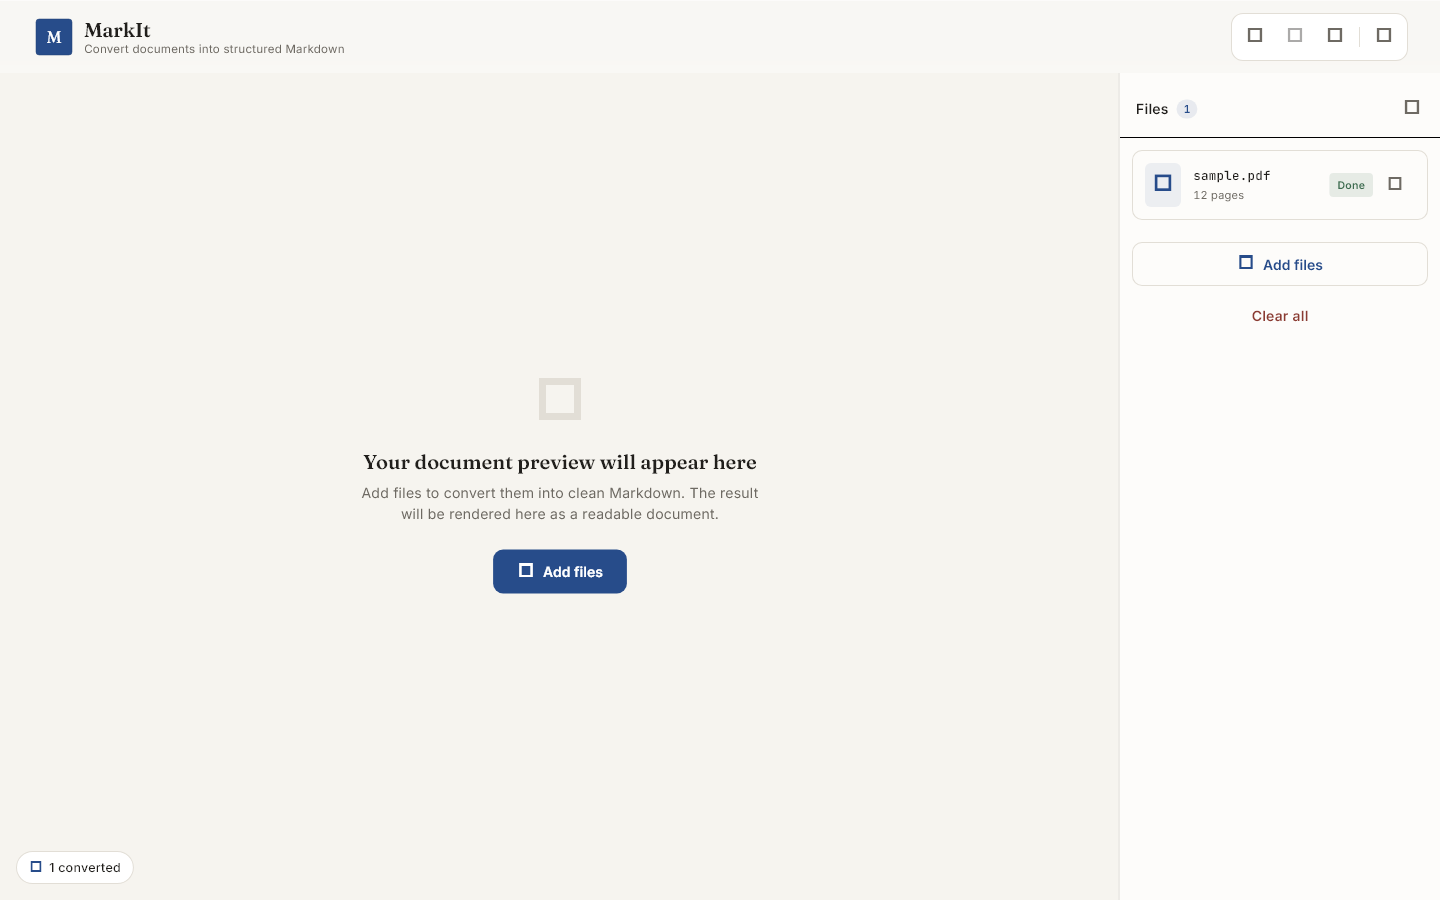
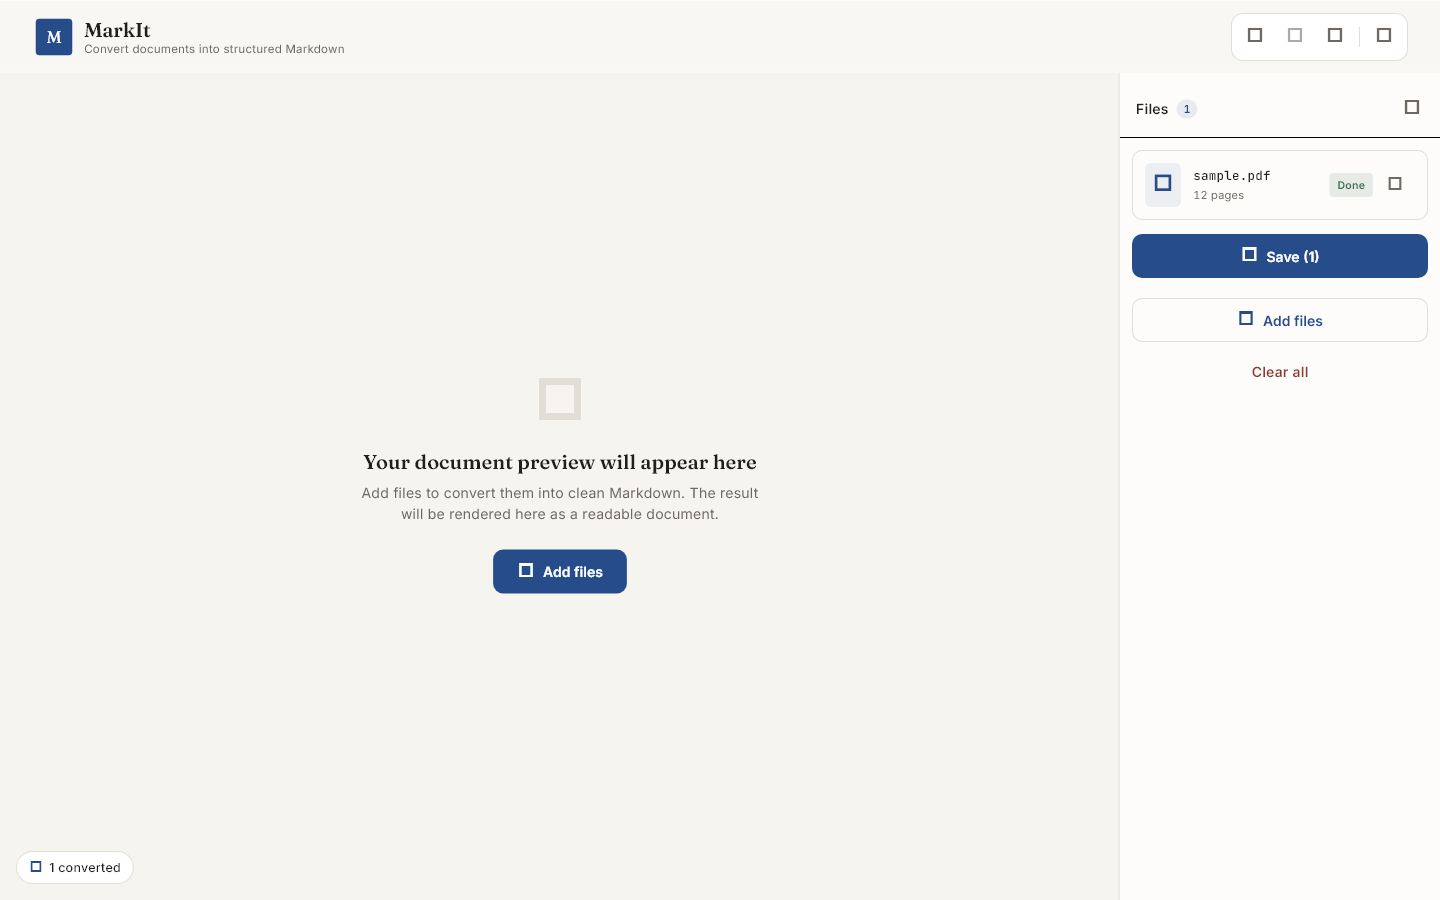
feat: tombol Save di sidebar (desktop) — pilih folder tujuan setelah parsing

Changed region(s): [[0.7812, 0.2489, 1.0, 0.3111], [0.8438, 0.3422, 0.9062, 0.3733], [0.875, 0.4044, 0.9062, 0.4356]]

diff --git a/test/widget/home_screen_test.dart b/test/widget/home_screen_test.dart
@@ -438,7 +438,7 @@ void main() {
           }
         });
 
-    testWidgets('batch sukses → pilih folder → .md dipindah + outputPath update',
+    testWidgets('batch sukses → tombol Save → pilih folder → .md dipindah',
         (tester) async {
       // Setup pakai IO sinkron — IO async di body testWidgets tidak selesai
       // (continuation menumpuk di fake microtask queue).
@@ -469,8 +469,17 @@ void main() {
       await tester.runAsync(() async {
         await tester.tap(find.text(Strings.overwriteConfirm));
       });
-      // Batch (2x10ms) + dialog folder + move + snackbar
+      // Batch (2x10ms) — tanpa auto-dialog lagi setelah selesai.
       await drive(tester, 30);
+      // Auto-dialog TIDAK muncul lagi — file belum dipindah sebelum tap Save.
+      expect(File('${dst.path}/a.md').existsSync(), isFalse);
+      expect(find.text('Save (1)'), findsOneWidget); // tombol muncul
+
+      await tester.runAsync(() async {
+        await tester.tap(find.text('Save (1)'));
+      });
+      // Dialog folder + move + snackbar
+      await drive(tester, 10);
 
       expect(File('${dst.path}/a.md').existsSync(), isTrue);
       expect(File(oldPath).existsSync(), isFalse);
@@ -505,6 +514,13 @@ void main() {
         await tester.tap(find.text(Strings.overwriteConfirm));
       });
       await drive(tester, 30);
+
+      // Batch selesai → tombol Save muncul (auto-dialog diganti tombol).
+      expect(find.text('Save (1)'), findsOneWidget);
+      await tester.runAsync(() async {
+        await tester.tap(find.text('Save (1)'));
+      });
+      await drive(tester, 10);
 
       expect(File(job.outputPath).existsSync(), isTrue); // tetap di sumber
       expect(job.outputPath, '${src.path}/a.md');
@@ -541,6 +557,14 @@ void main() {
         await tester.tap(find.text(Strings.overwriteConfirm));
       });
       await drive(tester, 30);
+      // Auto-dialog tidak muncul — file belum dipindah sebelum tap Save.
+      expect(File('${dst.path}/a.md').readAsStringSync(), '# old');
+      expect(find.text('Save (1)'), findsOneWidget);
+
+      await tester.runAsync(() async {
+        await tester.tap(find.text('Save (1)'));
+      });
+      await drive(tester, 10);
       // Dialog konflik (folder tujuan) muncul → tap tombol overwrite
       expect(find.textContaining('already exist'), findsOneWidget);
       await tester.runAsync(() async {
@@ -550,6 +574,26 @@ void main() {
 
       expect(File('${dst.path}/a.md').readAsStringSync(), '# new');
       expect(job.outputPath, '${dst.path}/a.md');
+    });
+
+    testWidgets('tombol Save: muncul saat done>0 & idle; tidak saat running/0 done',
+        (tester) async {
+      final controller = FakeConversionController();
+      await pumpWide(tester, MaterialApp(home: HomeScreen(controller: controller)));
+      controller.addFiles([PdfInput(name: 'a.pdf', path: 'a.pdf')]);
+      await tester.pump();
+      expect(find.text('Save (1)'), findsNothing); // belum convert → done=0
+
+      // runAsync: _confirmOverwrite memakai File.exists (IO nyata).
+      await tester.runAsync(() async {
+        await tester.tap(find.text('Convert (1)'));
+        await Future<void>.delayed(const Duration(milliseconds: 50));
+        await tester.pump(const Duration(milliseconds: 50));
+      });
+      // Batch (2x10ms) selesai → tombol muncul saat idle & done>0.
+      await drive(tester, 30);
+
+      expect(find.text('Save (1)'), findsOneWidget); // batch selesai → tombol muncul
     });
   });
 }

diff --git a/lib/ui/widgets/left_panel.dart b/lib/ui/widgets/left_panel.dart
@@ -21,6 +21,7 @@ class LeftPanel extends StatelessWidget {
     required this.onRemove,
     required this.onSelect,
     required this.onDownloadFile,
+    required this.onSaveOutput,
     this.selectedJobId,
     this.isRunning = false,
     this.progressFraction,
@@ -34,6 +35,7 @@ class LeftPanel extends StatelessWidget {
   final void Function(String id) onRemove;
   final void Function(QueuedFile) onSelect;
   final void Function(QueuedFile) onDownloadFile;
+  final VoidCallback onSaveOutput;
   final String? selectedJobId;
   final bool isRunning;
   final double? progressFraction;
@@ -209,6 +211,16 @@ class LeftPanel extends StatelessWidget {
             onPressed: () => _downloadAllZip(queue, done),
             icon: const Icon(Icons.archive_outlined, size: 18),
             label: Text('${Strings.downloadAllZip} ($done)'),
+          ),
+          const SizedBox(height: PdflowSpacing.sm),
+        ],
+        // Desktop: simpan hasil .md ke folder pilihan — muncul saat idle dan
+        // ada output sukses (done > 0).
+        if (!kIsWeb && !isRunning && done > 0) ...[
+          FilledButton.icon(
+            onPressed: onSaveOutput,
+            icon: const Icon(Icons.folder_outlined, size: 18),
+            label: Text('${Strings.saveOutput} ($done)'),
           ),
           const SizedBox(height: PdflowSpacing.sm),
         ],

diff --git a/lib/ui/screens/home_screen.dart b/lib/ui/screens/home_screen.dart
@@ -71,12 +71,12 @@ class _HomeScreenState extends State<HomeScreen> {
 
     _startConversion();
     await controller.convertAll();
+  }
 
-    // Fase pilih lokasi (desktop): setelah batch selesai, tawarkan folder
-    // tujuan untuk hasil .md yang sukses. Web selalu download via Blob.
-    if (!kIsWeb && mounted) {
-      await _offerMoveOutputs(controller);
-    }
+  /// Tombol Save di sidebar → pilih folder tujuan hasil .md (desktop).
+  Future<void> _onSaveOutput() async {
+    if (!mounted) return;
+    await _offerMoveOutputs(widget.controller);
   }
 
   /// Dialog konfirmasi overwrite (FR-12): muncul bila ada output .md yang
@@ -315,6 +315,7 @@ class _HomeScreenState extends State<HomeScreen> {
                       controller: c,
                       onAddMore: _addMoreFiles,
                       onConvertAll: _convertAll,
+                      onSaveOutput: _onSaveOutput,
                       onClear: _reset,
                       onRemove: c.removeFile,
                       onSelect: (job) =>

diff --git a/lib/i18n/strings.dart b/lib/i18n/strings.dart
@@ -116,6 +116,7 @@ class Strings {
       '%d file(s) already exist in the chosen folder.';
   static const outputSavedTo = 'Saved %d file(s) to %s';
   static const outputKeptInPlace = 'Output kept in the source folder.';
+  static const saveOutput = 'Save';
   static const featureFast = 'Fast';
   static const featureFastSub = 'Hundreds of pages in seconds';
   static const featureOffline = 'Private';
